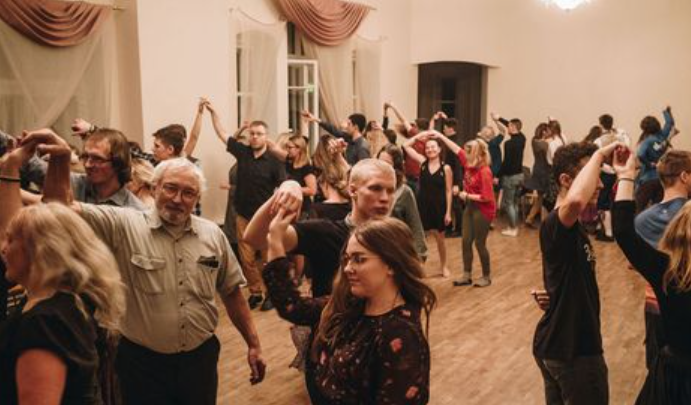
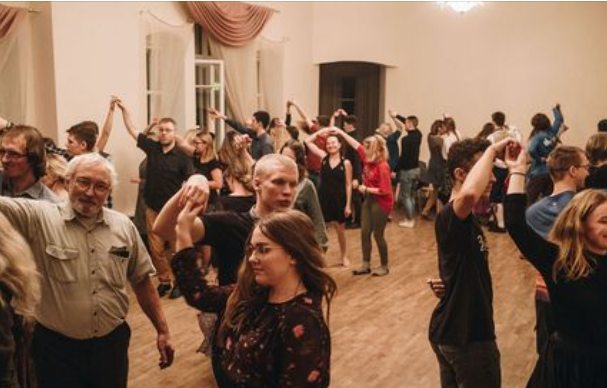
tantsuõhtu pilt töötab nüüd ka:)

diff --git a/sorteerimine.html b/sorteerimine.html
@@ -62,7 +62,7 @@
             </button>
 
             <button id= "urituse_nupp" class="filterDiv tasuta aktiivne">
-                <img src="img/tants.jpg" alt="sündmus">
+                <img src="img/tants.png" alt="sündmus">
                 <div class="sisu">
                     <h3 class="pealkiri">Tantsuõhtud</h3>
                 </div>
